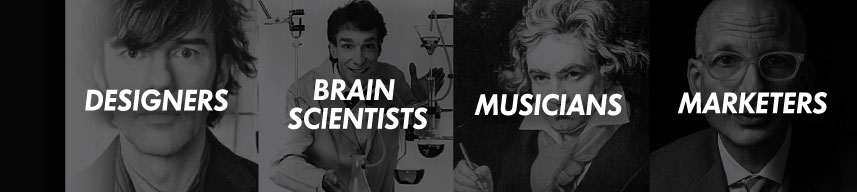
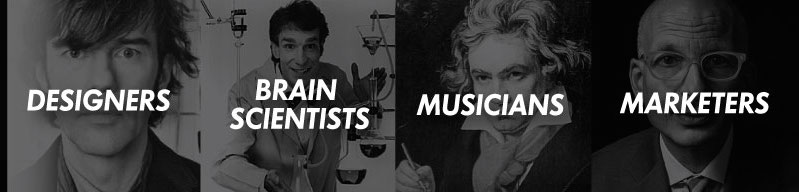
they are section

diff --git a/css/style.css b/css/style.css
@@ -33,17 +33,20 @@ trashHand.ttf set to installable to be able to support IE9+ browsers
   src: url('TrashHand.ttf')  format('truetype'); /* Safari, Android, iOS */
 }
 
+.centerImg {
+  display: block;
+  margin-left: auto;
+  margin-right: auto;
+}
+
 #header547 {
   background-color: #e9c21d;
   height: 450px;
   width: 100%;
 }
 
-.displayImgCenter {
+#img547 {
   padding-top: 67px;
-  display: block;
-  margin-left: auto;
-  margin-right: auto;
   height: 42%;
 }
 
@@ -102,7 +105,6 @@ div#ourStudents {
 #ourStudents img {
   margin-top: -94px;
   margin-left: 367px;
-  padding-bottom: 0px;
 }
 
 #ourStudentsText {
@@ -114,3 +116,15 @@ div#ourStudents {
   -webkit-transform: scale(1, 1.025);
   margin-top: -6px;
 }
+
+#theyAre {
+  background-color: #000000;
+  height: 192px;
+}
+
+#theyAreBubble {
+  margin-top: -63px;
+  margin-left: 731px;
+  position: absolute;
+}
+

diff --git a/index.html b/index.html
@@ -7,7 +7,7 @@
 <body>
 
   <div id="header547">
-    <img class="displayImgCenter" src="images/547days.png"/>
+    <img class="centerImg" id="img547" src="images/547days.png"/>
     <center><p id="intro">we started <span id="darkHighlight">Lighthouse Labs</span> with the goal of
     <strong>empowering talented people</strong> with software development skills so they could <strong>launch amazing new careers!</strong>
     </p></center>
@@ -23,6 +23,11 @@
     <center>
       <p id="ourStudentsText">Students { ARE A BUNCH OF MOTIVATED, HARD<br>WORKING, SMART & PASSIONATE INDIVIDUALS. }</p>
     </center>
+  </div>
+
+  <div id="theyAre">
+    <img id="theyAreBubble" src="images/Theyare.png"/>
+    <img class="centerImg" src="images/designer,brainscientist,musicians,marketer.jpg" />
   </div>
 
 </body>
